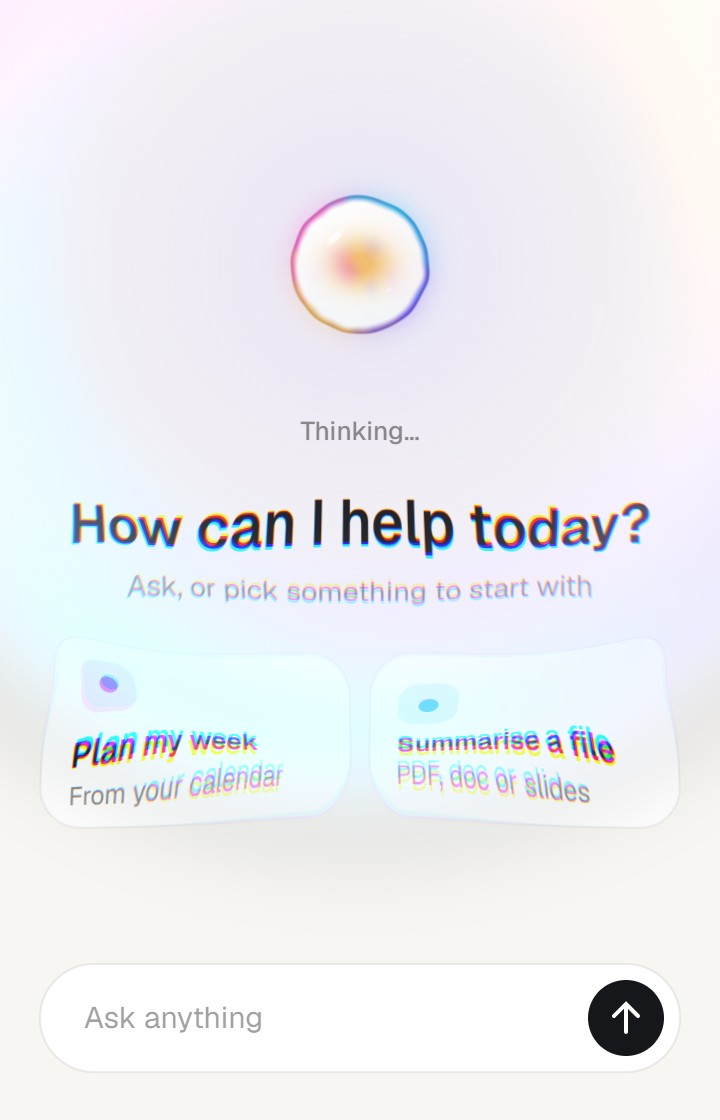
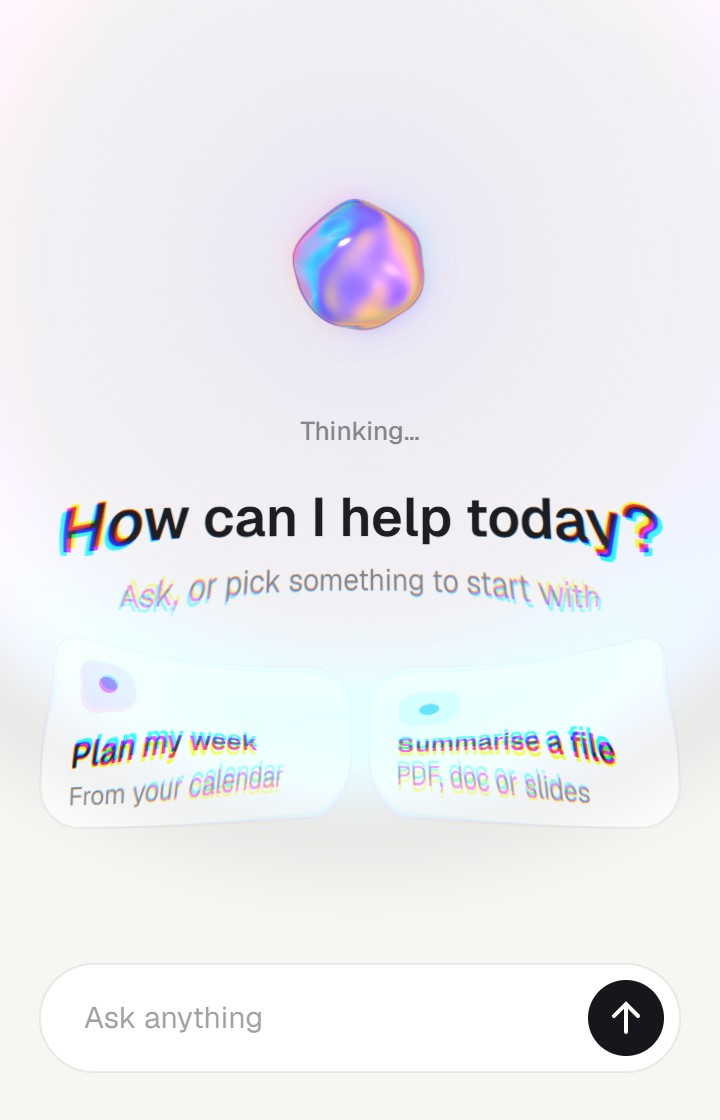
Lab: Glass is the default orb in AI Blob (and on its tile); AI Wave uses the glass orb (Nebula and Halo in the panel) and never starts two waves at once

diff --git a/lab-board/index.html b/lab-board/index.html
@@ -545,8 +545,8 @@ const CFG = {
 
 // ---------- content (placeholder data: Jarek's own experiments) ----------
 const PIECES = [
-  { slug:'ai-wave', fresh:true, title:'AI Wave', what:'The AirDrop wave, used to show an AI at work. On the screen of an assistant app, a wave of light runs out of the orb as it starts to think, bending everything it passes over like a lens, its edge split into a rainbow; softer waves follow while it speaks, and one runs in to it while it listens. Tap the screen to send a wave from anywhere. Three waves (AirDrop, Ripple, Glow) and a panel for speed, width, bend, rainbow and light. A draft.', year:'2026', kind:'interaction', live:'pieces/ai-wave/', code:'https://github.com/vod123qwe/playground/tree/main/lab-board/pieces/ai-wave', image:'thumbs/ai-wave.jpg?v=1', words:['ai', 'airdrop', 'wave', 'shader', 'lens'], rect:{x:3640,y:420,w:360,h:560} },
-  { slug:'ai-blob', fresh:true, variants:12, title:'AI Blob', what:'A living orb for an AI assistant, made as one web component you can drop into any page. Twelve orbs drawn in shaders (a clear glass halo with a flowing rim and a glowing core, liquid glass bending the light, four glass vessels with a world inside: drops of liquid light, an aurora, synapses with sparks running along them, liquid mercury, a silk colour cloud, a nebula of smoke, a halftone of dots, a calm swirl of one colour, a swarm of points, glowing rings) and seven states that morph into one another: default, listening, speaking, thinking, connecting, error and muted. It can stand on a ground in perspective: muted, it sits down; awake, it stands up and floats over its shadow. Tap it to squeeze it, it pops in on start, moves to a built-in voice or your microphone, draws clean colour on light pages and glows on dark ones. Presets, fine tuning, palettes or one HCT seed colour, and the tag to copy.', year:'2026', kind:'interaction', live:'pieces/ai-blob/', code:'https://github.com/vod123qwe/playground/tree/main/lab-board/pieces/ai-blob', image:'thumbs/ai-blob.jpg?v=3', words:['ai', 'voice', 'shader', 'webgl', 'web component', 'states', 'depth'], rect:{x:3100,y:900,w:420,h:420} },
+  { slug:'ai-wave', fresh:true, title:'AI Wave', what:'The AirDrop wave, used to show an AI at work. On the screen of an assistant app, a wave of light runs out of the orb as it starts to think, bending everything it passes over like a lens, its edge split into a rainbow; softer waves follow while it speaks, and one runs in to it while it listens. Tap the screen to send a wave from anywhere. Three waves (AirDrop, Ripple, Glow) and a panel for speed, width, bend, rainbow and light. A draft.', year:'2026', kind:'interaction', live:'pieces/ai-wave/', code:'https://github.com/vod123qwe/playground/tree/main/lab-board/pieces/ai-wave', image:'thumbs/ai-wave.jpg?v=2', words:['ai', 'airdrop', 'wave', 'shader', 'lens'], rect:{x:3640,y:420,w:360,h:560} },
+  { slug:'ai-blob', fresh:true, variants:12, title:'AI Blob', what:'A living orb for an AI assistant, made as one web component you can drop into any page. Twelve orbs drawn in shaders (a clear glass halo with a flowing rim and a glowing core, liquid glass bending the light, four glass vessels with a world inside: drops of liquid light, an aurora, synapses with sparks running along them, liquid mercury, a silk colour cloud, a nebula of smoke, a halftone of dots, a calm swirl of one colour, a swarm of points, glowing rings) and seven states that morph into one another: default, listening, speaking, thinking, connecting, error and muted. It can stand on a ground in perspective: muted, it sits down; awake, it stands up and floats over its shadow. Tap it to squeeze it, it pops in on start, moves to a built-in voice or your microphone, draws clean colour on light pages and glows on dark ones. Presets, fine tuning, palettes or one HCT seed colour, and the tag to copy.', year:'2026', kind:'interaction', live:'pieces/ai-blob/', code:'https://github.com/vod123qwe/playground/tree/main/lab-board/pieces/ai-blob', image:'thumbs/ai-blob.jpg?v=4', words:['ai', 'voice', 'shader', 'webgl', 'web component', 'states', 'depth'], rect:{x:3100,y:900,w:420,h:420} },
   { slug:'glass-button', variants:6, title:'Glass Button', what:'An Ask AI button made of real, ray-traced glass. Hold it and it swells, let go and the menu (Write, Summarise, Translate) flows out of it; the label is printed on the surface and the icon is a glass bead with a symbol, a flowing orb or a carving. A panel tunes shape, refraction, light, glow and sound; hold the wheel to orbit.', year:'2026', kind:'interaction', live:'pieces/glass-button/', code:'https://github.com/vod123qwe/playground/tree/main/lab-board/pieces/glass-button', image:'thumbs/glass-button.jpg', depth:'thumbs/depth/glass-button.png', video:'thumbs/glass-button-hover.webm', words:['glass', 'light', 'spectral', 'mercury'], rect:{x:560,y:70,w:460,h:260} },
   // empty slots: the next experiments land here
   { slug:'like-button', fresh:true, preview:'pieces/like-button/?demo=1', variants:2, title:'Like Button', what:'A like, made to feel like a small reward. Press and the heart dips under the finger; let go and it fills, a ring and a spray of dots burst round it and the count rolls on by one. Two looks: Classic (a crisp burst) and Liquid (the colour poured in with a wave). Light and dark; a panel tunes every layer, small hearts floating up included.', year:'2026', kind:'interaction', live:'pieces/like-button/', code:'https://github.com/vod123qwe/playground/tree/main/lab-board/pieces/like-button', image:'thumbs/like-button.jpg', words:['heart', 'burst', 'liquid', 'reward'], rect:{x:90,y:100,w:330,h:460} },

diff --git a/lab-board/pieces/ai-wave/index.html b/lab-board/pieces/ai-wave/index.html
@@ -12,7 +12,7 @@
 <style>
   /* The AirDrop wave, used for an AI at work: a screen of an assistant app, the orb at the top. When the orb starts to think, a wave
      of light runs out of it across the whole screen, bending what it passes over like a lens, its edge split into a rainbow; while
-     it speaks, softer waves follow the voice; while it listens, a wave runs in to it. The screen is drawn into a texture and the
+     it speaks, softer waves follow the voice; while it listens, a wave runs in to it. The orb is Glass by default (Nebula and Halo in the panel). The screen is drawn into a texture and the
      wave is a shader over it (real displacement of the pixels, red, green and blue bent a little apart). Tap anywhere to send one. */
   :root { --font: var(--lab-font); --bg: #ebe9e4; --ink: #1b1c20; --muted: rgba(20,20,20,.45); --chip: #fff; --ease: cubic-bezier(.22,.61,.36,1);
     --page: #fff; --box: var(--bg); --morph: .55s cubic-bezier(.3,1.12,.4,1); }
@@ -67,7 +67,7 @@
 <main class="stage" id="stage">
   <div class="screen" id="screen" aria-label="An assistant app; a wave runs from the orb when it works. Tap to send a wave.">
     <canvas id="gl" aria-hidden="true"></canvas>
-    <ai-blob id="orb" variant="halo" palette="aurora" blend="ink" intro="false" interactive="false"></ai-blob>
+    <ai-blob id="orb" variant="glass" palette="aurora" blend="ink" intro="false" interactive="false"></ai-blob>
   </div>
 </main>
 <div class="states" id="states" role="group" aria-label="What the AI is doing"></div>
@@ -84,11 +84,13 @@ const $ = id => document.getElementById(id), q = new URLSearchParams(location.se
 const KEY = 'lab.ai-wave.v1';
 const STYLES = [['airdrop', 'AirDrop'], ['ripple', 'Ripple'], ['glow', 'Glow']];
 const STATES = [['default', 'Default'], ['listening', 'Listening'], ['thinking', 'Thinking'], ['speaking', 'Speaking'], ['muted', 'Muted']];
-const DEF = { style: 'airdrop', speed: 1, width: 34, strength: 1, chroma: .5, glow: 1, onWork: true, onSpeak: true, onListen: true };
+const ORBS = [['glass', 'Glass'], ['nebula', 'Nebula'], ['halo', 'Halo']];
+const DEF = { orb: 'glass', style: 'airdrop', speed: 1, width: 34, strength: 1, chroma: .5, glow: 1, onWork: true, onSpeak: true, onListen: true };
 let P = (() => { const p = { ...DEF }; try { const o = JSON.parse(localStorage.getItem(KEY) || '{}'); for (const k in DEF) if (typeof o[k] === typeof DEF[k]) p[k] = o[k]; } catch { } return p; })();
-if (BARE) P = { ...DEF };
+if (BARE) P = { ...DEF, orb: ORBS.some(o => o[0] === q.get('orb')) ? q.get('orb') : 'glass' };
 const save = () => { if (BARE) return; try { const d = {}; for (const k in P) if (P[k] !== DEF[k]) d[k] = P[k]; localStorage.setItem(KEY, JSON.stringify(d)); } catch { } };
 const screen = $('screen'), orb = $('orb'), cv = $('gl');
+orb.variant = P.orb;
 let state = 'default';
 
 // ---------- the screen, drawn into a canvas (sample content: an assistant's home) ----------
@@ -177,7 +179,8 @@ screen.addEventListener('pointerdown', e => { const r = screen.getBoundingClient
 
 // ---------- the AI's states drive the waves ----------
 function setState(s) { const was = state; state = s; orb.state = s; drawUI(); paintStates();
-  if (P.onWork && s === 'thinking' && was !== 'thinking') fromOrb(1.15, 1); }
+  if (P.onWork && s === 'thinking' && was !== 'thinking') fromOrb(1.15, 1);
+  next = performance.now() / 1000 + (s === 'thinking' ? 2.6 : .8); }   // (the next automatic wave waits, so two never start together)
 let next = 0;
 function auto(now) { if (now < next) return;
   if (state === 'speaking' && P.onSpeak) { fromOrb(.42 + Math.random() * .25, 1); next = now + 1.1 + Math.random() * 1.1; }
@@ -229,12 +232,13 @@ function buildPanel() { panel.innerHTML = '';
   ctl.strength = LabUI.slider(g1, { label: 'Bend', min: 0, max: 2, step: .05, unit: '×', value: P.strength, def: DEF.strength, onInput: v => set('strength', v), onChange: () => fromOrb(1, 1) });
   ctl.chroma = LabUI.slider(g1, { label: 'Rainbow', min: 0, max: 1.5, step: .05, unit: '', value: P.chroma, def: DEF.chroma, onInput: v => set('chroma', v), onChange: () => fromOrb(1, 1) });
   ctl.glow = LabUI.slider(g1, { label: 'Light', min: 0, max: 1.5, step: .05, unit: '', value: P.glow, def: DEF.glow, onInput: v => set('glow', v), onChange: () => fromOrb(1, 1) });
+  ctl.orb = LabUI.seg(g1, { label: 'Orb', options: ORBS, value: P.orb, onChange: v => { set('orb', v); orb.variant = v; fromOrb(1, 1); } });
   const g2 = LabUI.group(panel, 'When it runs', { key: KEY + '.g.when', open: true });
   ctl.onWork = LabUI.check(g2, { label: 'A wave out as the AI starts to think', value: P.onWork, onChange: v => set('onWork', v) });
   ctl.onSpeak = LabUI.check(g2, { label: 'Softer waves while it speaks', value: P.onSpeak, onChange: v => set('onSpeak', v) });
   ctl.onListen = LabUI.check(g2, { label: 'A wave in to it while it listens', value: P.onListen, onChange: v => set('onListen', v) });
   const acts = document.createElement('div'); acts.className = 'acts'; acts.innerHTML = '<button type="button" id="reset">Reset</button>'; panel.appendChild(acts);
-  acts.querySelector('#reset').onclick = () => { P = { ...DEF, style: P.style }; save(); for (const k in ctl) ctl[k].set?.(P[k]); }; }
+  acts.querySelector('#reset').onclick = () => { P = { ...DEF, style: P.style, orb: P.orb }; save(); for (const k in ctl) ctl[k].set?.(P[k]); }; }
 function openPanel(on) { document.body.classList.toggle('tuning', on); $('tune').setAttribute('aria-expanded', String(on)); setTimeout(drawUI, 600); }
 $('tune').onclick = () => openPanel(true);
 new ResizeObserver(() => drawUI()).observe(screen);

diff --git a/lab-board/pieces/ai-blob/index.html b/lab-board/pieces/ai-blob/index.html
@@ -95,7 +95,7 @@
 <div class="states" id="states" role="group" aria-label="State"></div>
 <div class="dock" id="dock"><div class="vars" id="vars" role="group" aria-label="Orbs">
   <button id="prev" type="button" aria-label="Previous orb"><svg viewBox="0 0 24 24" fill="none" stroke="currentColor" stroke-width="1.75" stroke-linecap="round" stroke-linejoin="round" aria-hidden="true"><path d="M15 6l-6 6 6 6"/></svg></button>
-  <span class="vn" id="nm" aria-live="polite">Halo</span>
+  <span class="vn" id="nm" aria-live="polite">Glass</span>
   <button id="next" type="button" aria-label="Next orb"><svg viewBox="0 0 24 24" fill="none" stroke="currentColor" stroke-width="1.75" stroke-linecap="round" stroke-linejoin="round" aria-hidden="true"><path d="M9 6l6 6-6 6"/></svg></button>
 </div></div>
 <aside class="panel lab-ui soft" id="panel" aria-label="Customize the orb"></aside>
@@ -110,7 +110,7 @@ const PALS = [['aurora', 'Aurora'], ['ocean', 'Ocean'], ['sunset', 'Sunset'], ['
 // (the tunables: settings key → attribute, label, min, max, step)
 const TUNE = [['glow', 'glow', 'Glow', 0, 2, .05], ['halo', 'halo', 'Halo', 0, 2.5, .05], ['rim', 'rim', 'Rim', 0, 2.5, .05], ['core', 'core', 'Core', 0, 2.5, .05], ['glints', 'glints', 'Glints', 0, 2, .05],
   ['detail', 'detail', 'Detail', .3, 3, .05], ['wobble', 'wobble', 'Wobble', 0, 1, .01], ['cspeed', 'color-speed', 'Colour speed', 0, 4, .05]];
-const DEF = { variant: 'halo', state: 'default', theme: 'light', blend: 'auto', palette: 'aurora', h: 285, c: 72, t: 52, speed: 1, view: 'one', ground: false, lift: 1, interactive: true, intro: true,
+const DEF = { variant: 'glass', state: 'default', theme: 'light', blend: 'auto', palette: 'aurora', h: 285, c: 72, t: 52, speed: 1, view: 'one', ground: false, lift: 1, interactive: true, intro: true,
   glow: 1, halo: 1, rim: 1, core: 1, glints: 1, detail: 1, wobble: 0, cspeed: 1 };
 // (presets: an orb, its colours and a few settings that suit it)
 const PRESETS = [['Iridescent', { variant: 'halo', palette: 'aurora' }], ['Pearl', { variant: 'halo', palette: 'mono', glow: .8, rim: .8, core: 1.3 }], ['Liquid', { variant: 'glass', palette: 'ocean' }], ['Lava lamp', { variant: 'core', palette: 'aurora' }], ['Northern', { variant: 'aurora', palette: 'mint' }],
@@ -118,7 +118,7 @@ const PRESETS = [['Iridescent', { variant: 'halo', palette: 'aurora' }], ['Pearl
   ['Silk', { variant: 'cloud', palette: 'sunset' }], ['Smoke', { variant: 'nebula', palette: 'aurora', halo: 1.4 }], ['Print', { variant: 'dots', palette: 'aurora', detail: 1.3 }],
   ['Calm', { variant: 'swirl', palette: 'ocean' }], ['Orbit', { variant: 'rings', palette: 'mint', rim: 1.3 }], ['Stardust', { variant: 'swarm', palette: 'sunset' }]];
 let P = (() => { const p = { ...DEF }; try { const o = JSON.parse(localStorage.getItem(KEY) || '{}'); for (const k in DEF) if (typeof o[k] === typeof DEF[k]) p[k] = o[k]; } catch { } return p; })();
-if (BARE) P = { ...DEF, variant: q.get('variant') || 'halo', ground: q.has('ground'), theme: q.get('theme') === 'dark' ? 'dark' : 'light' };
+if (BARE) P = { ...DEF, variant: q.get('variant') || 'glass', ground: q.has('ground'), theme: q.get('theme') === 'dark' ? 'dark' : 'light' };
 const save = () => { if (BARE) return; try { const d = {}; for (const k in P) if (P[k] !== DEF[k] && !(k === 'state' && (P[k] === 'connecting' || P[k] === 'error'))) d[k] = P[k]; localStorage.setItem(KEY, JSON.stringify(d)); } catch { } };
 const all = () => [...document.querySelectorAll('ai-blob')];
 
@@ -138,7 +138,7 @@ function apply() { const cols = colours(), a = attrs(), names = ['blend', 'groun
   document.querySelector('meta[name=theme-color]').content = P.theme === 'dark' ? '#0e0f13' : '#f4f3ef'; $('vars').classList.toggle('dark', P.theme === 'dark');
   document.querySelectorAll('#mode button').forEach(b => b.setAttribute('aria-checked', String(b.dataset.m === P.theme)));
   requestAnimationFrame(() => all().forEach(b => b.refresh?.()));   // (the orb looks at the new background straight away)
-  $('nm').textContent = ORBS.find(o => o[0] === P.variant)?.[1] || 'Halo'; paintStates(); paintChips(); paintCode(); markPresets(); vis(); }
+  $('nm').textContent = ORBS.find(o => o[0] === P.variant)?.[1] || 'Glass'; paintStates(); paintChips(); paintCode(); markPresets(); vis(); }
 function setState(s) { P.state = s; save(); for (const b of all()) b.state = s; paintStates(); paintCode(); }
 // (connecting and error go back by themselves: the bar follows the orb)
 $('one').addEventListener('statechange', e => { if (e.detail.auto) { P.state = e.detail.state; for (const b of document.querySelectorAll('.sizes ai-blob')) b.state = P.state; save(); paintStates(); paintCode(); } });

diff --git a/lab-board/pieces/ai-wave/README.md b/lab-board/pieces/ai-wave/README.md
@@ -1,6 +1,6 @@
 # AI Wave (draft)
 
-Efekt fali z AirDrop (iOS 17) użyty inaczej: jako znak, że AI pracuje. Ekran aplikacji asystenta (przykładowa treść), u góry kula `<ai-blob>` (Halo, z `../ai-blob/ai-blob.js`). Gdy kula zaczyna myśleć, z niej wychodzi fala światła przez cały ekran: treść pod frontem wygina się jak pod soczewką, brzeg fali jest jasny z tęczowym rozszczepieniem, za nią zostaje odrobina światła. Podczas mówienia lecą słabsze fale, podczas słuchania fala zbiega do kuli. Kliknięcie w ekran wysyła falę z miejsca kliknięcia, Spacja albo „Send a wave” z kuli.
+Efekt fali z AirDrop (iOS 17) użyty inaczej: jako znak, że AI pracuje. Ekran aplikacji asystenta (przykładowa treść), u góry kula `<ai-blob>` (domyślnie Glass, w panelu Nebula i Halo; z `../ai-blob/ai-blob.js`). Gdy kula zaczyna myśleć, z niej wychodzi fala światła przez cały ekran: treść pod frontem wygina się jak pod soczewką, brzeg fali jest jasny z tęczowym rozszczepieniem, za nią zostaje odrobina światła. Podczas mówienia lecą słabsze fale, podczas słuchania fala zbiega do kuli. Kliknięcie w ekran wysyła falę z miejsca kliknięcia, Spacja albo „Send a wave” z kuli.
 
 **Jak to działa:** ekran jest rysowany w canvasie 2D (tekstura), fala to shader WebGL2 nad nim: dla każdej fali odległość od frontu w szerokościach pasma, przesunięcie pikseli wzdłuż promienia (pochodna gaussa: przed frontem wypchnięte, za nim wciągnięte, czyli soczewka), czerwony, zielony i niebieski przesunięte trochę różnie (tęcza), kolor brzegu z palety kuli po kącie. Front przechodzi ekran w ok. 0,95 s (lekko przyspiesza), gaśnie przy najdalszym rogu. Do 8 fal naraz.
 
